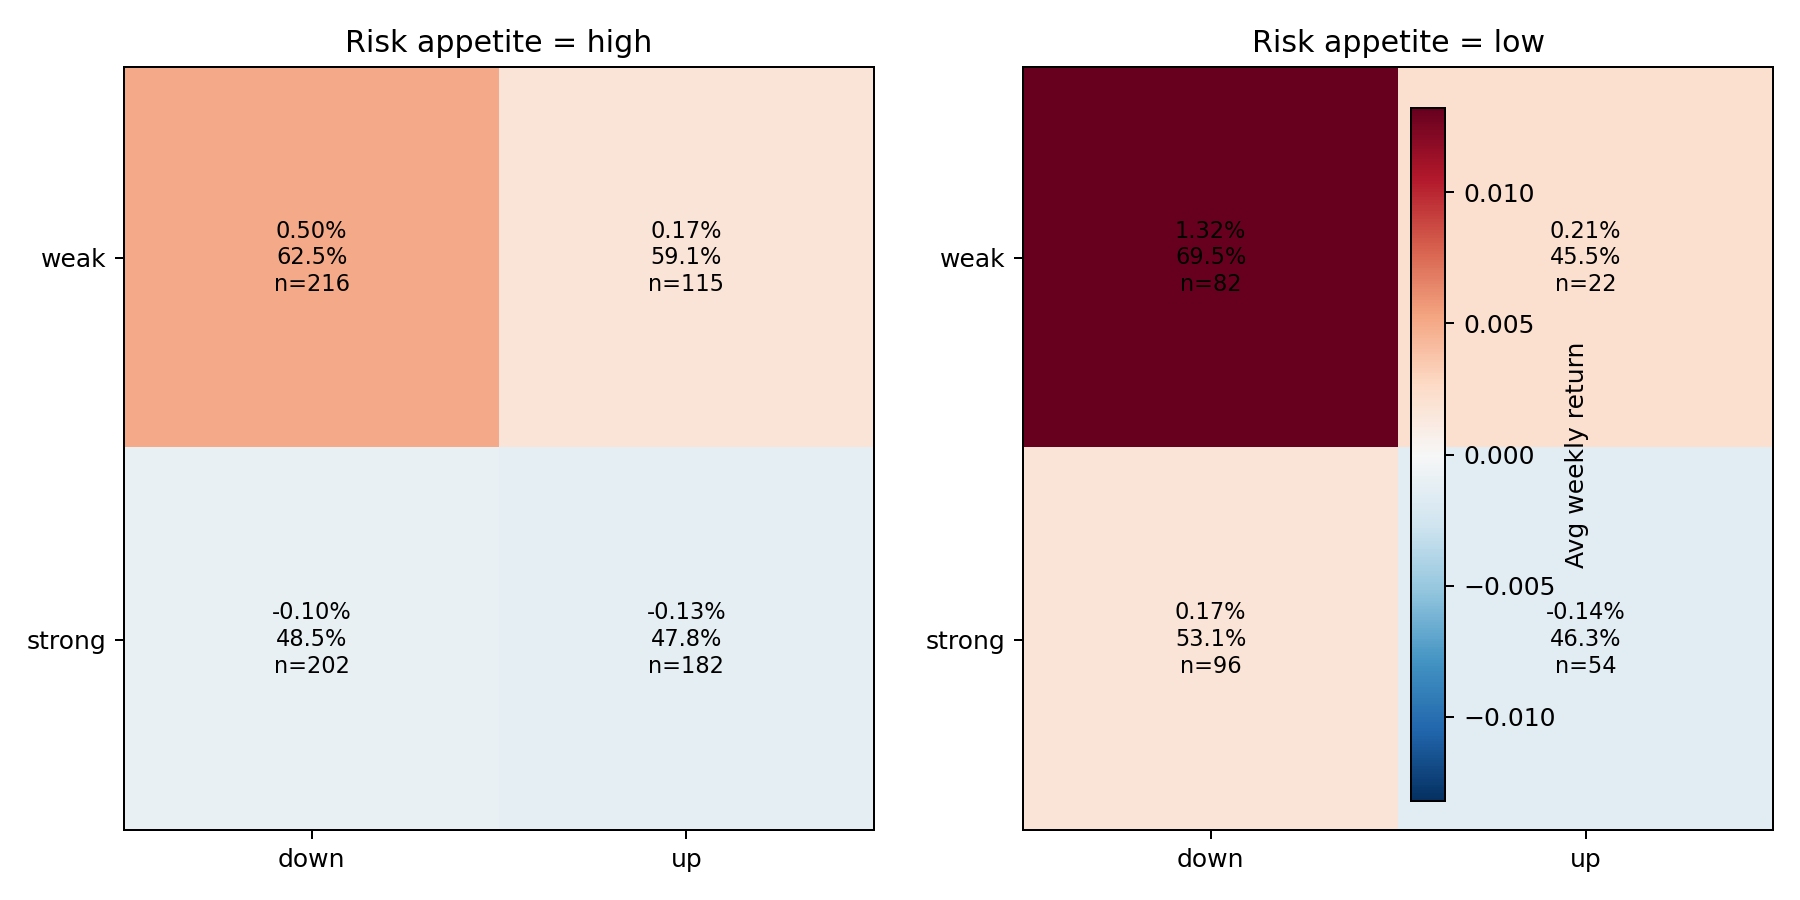
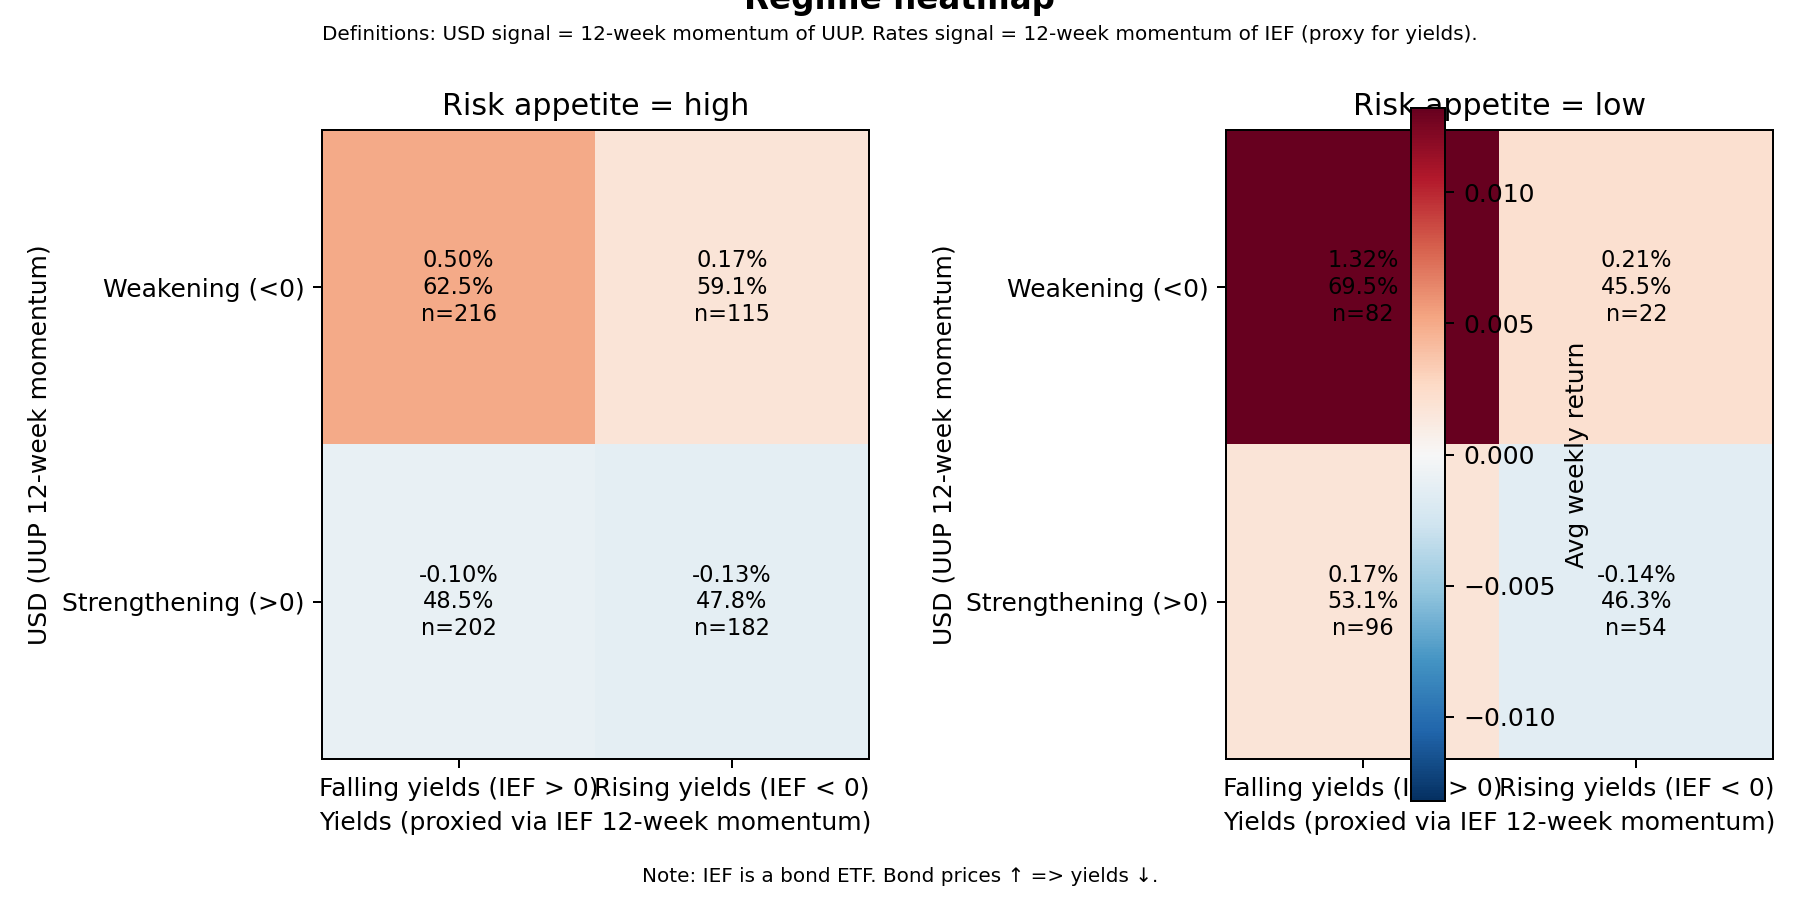
feat: make heatmap labels explicit and add definitions/footnote in PNG

diff --git a/src/build_gold_insights.py b/src/build_gold_insights.py
@@ -417,6 +417,10 @@ def build_regime_heatmap(regime_table: pd.DataFrame, cfg: Config) -> Dict[str, o
             "risk_appetite_order": risk_order,
         },
         "cells": cells,
+        "display_labels": {
+            "usd": {"weak": "USD weakening (UUP 12w < 0)", "strong": "USD strengthening (UUP 12w > 0)"},
+            "rates": {"down": "Yields falling (bond prices up; IEF 12w > 0)", "up": "Yields rising (bond prices down; IEF 12w < 0)"},
+        },
         "notes": {
             "avg_weekly_return": "Mean weekly GLD return in that regime.",
             "hit_rate": "Share of weeks with positive GLD return.",
@@ -462,14 +466,22 @@ def build_regime_heatmap(regime_table: pd.DataFrame, cfg: Config) -> Dict[str, o
                 for j in range(mat.shape[1]):
                     ax.text(j, i, ann[i][j], ha="center", va="center", fontsize=9)
 
+            # axis labels and ticks with explicit meanings
             ax.set_xticks(range(len(rates_order)))
-            ax.set_xticklabels(rates_order)
+            ax.set_xticklabels(["Falling yields (IEF > 0)", "Rising yields (IEF < 0)"])
+            ax.set_xlabel("Yields (proxied via IEF 12-week momentum)")
             ax.set_yticks(range(len(usd_order)))
-            ax.set_yticklabels(usd_order)
+            ax.set_yticklabels(["Weakening (<0)", "Strengthening (>0)"])
+            ax.set_ylabel("USD (UUP 12-week momentum)")
             ax.set_title(f"Risk appetite = {risk_app}")
 
+        # main title and subtitle with definitions
+        fig.text(0.5, 0.99, "Regime heatmap", ha="center", fontsize=13, weight="bold")
+        fig.text(0.5, 0.955, "Definitions: USD signal = 12-week momentum of UUP. Rates signal = 12-week momentum of IEF (proxy for yields).", ha="center", fontsize=8)
         fig.colorbar(im, ax=axes.ravel().tolist(), orientation="vertical", label="Avg weekly return")
-        fig.tight_layout()
+        # small footnote
+        fig.text(0.5, 0.02, "Note: IEF is a bond ETF. Bond prices ↑ => yields ↓.", ha="center", fontsize=8)
+        fig.tight_layout(rect=[0, 0.04, 1, 0.93])
         Path(cfg.regime_heatmap_png_path).parent.mkdir(parents=True, exist_ok=True)
         fig.savefig(cfg.regime_heatmap_png_path, dpi=180)
         plt.close(fig)
